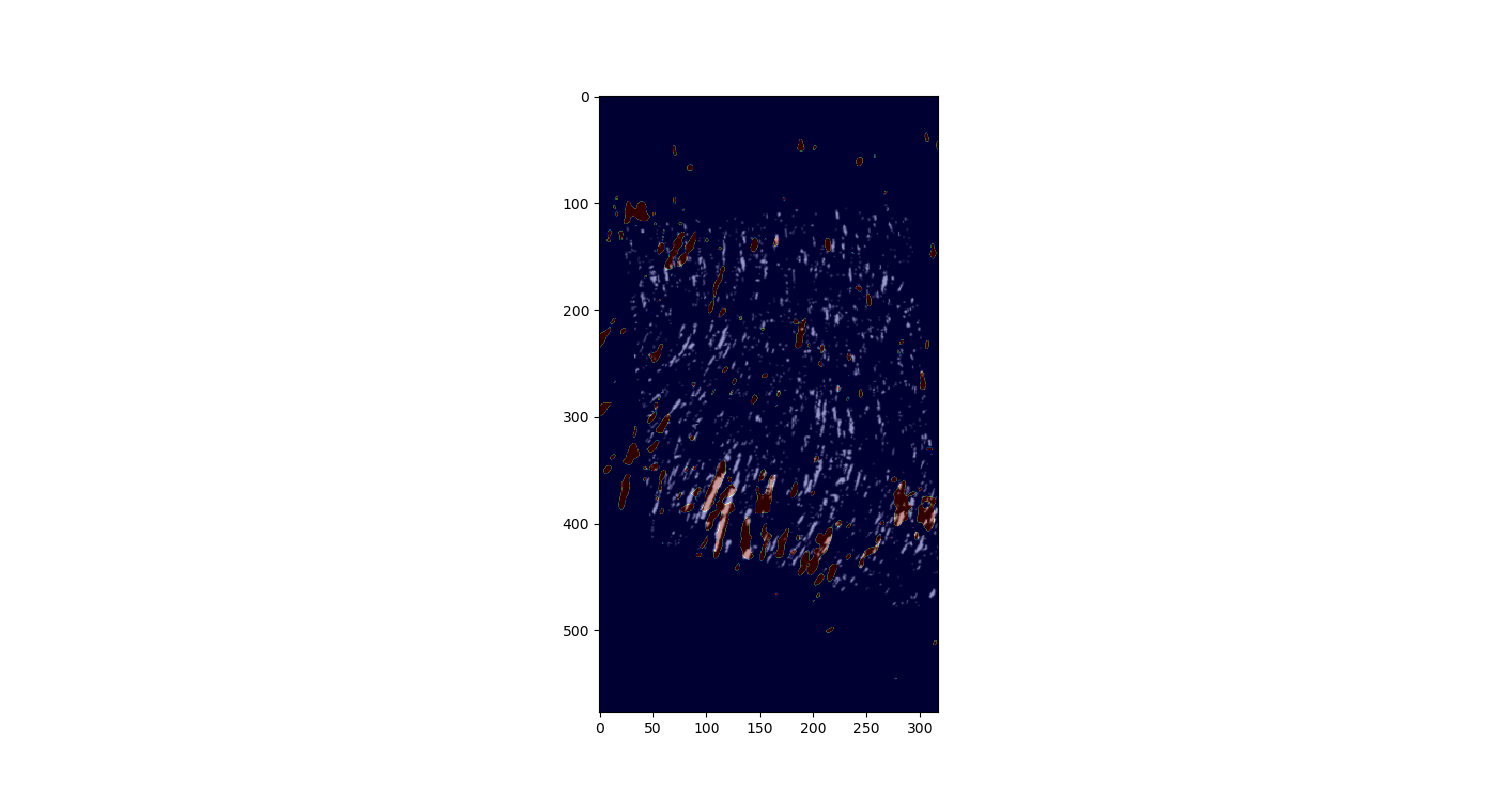
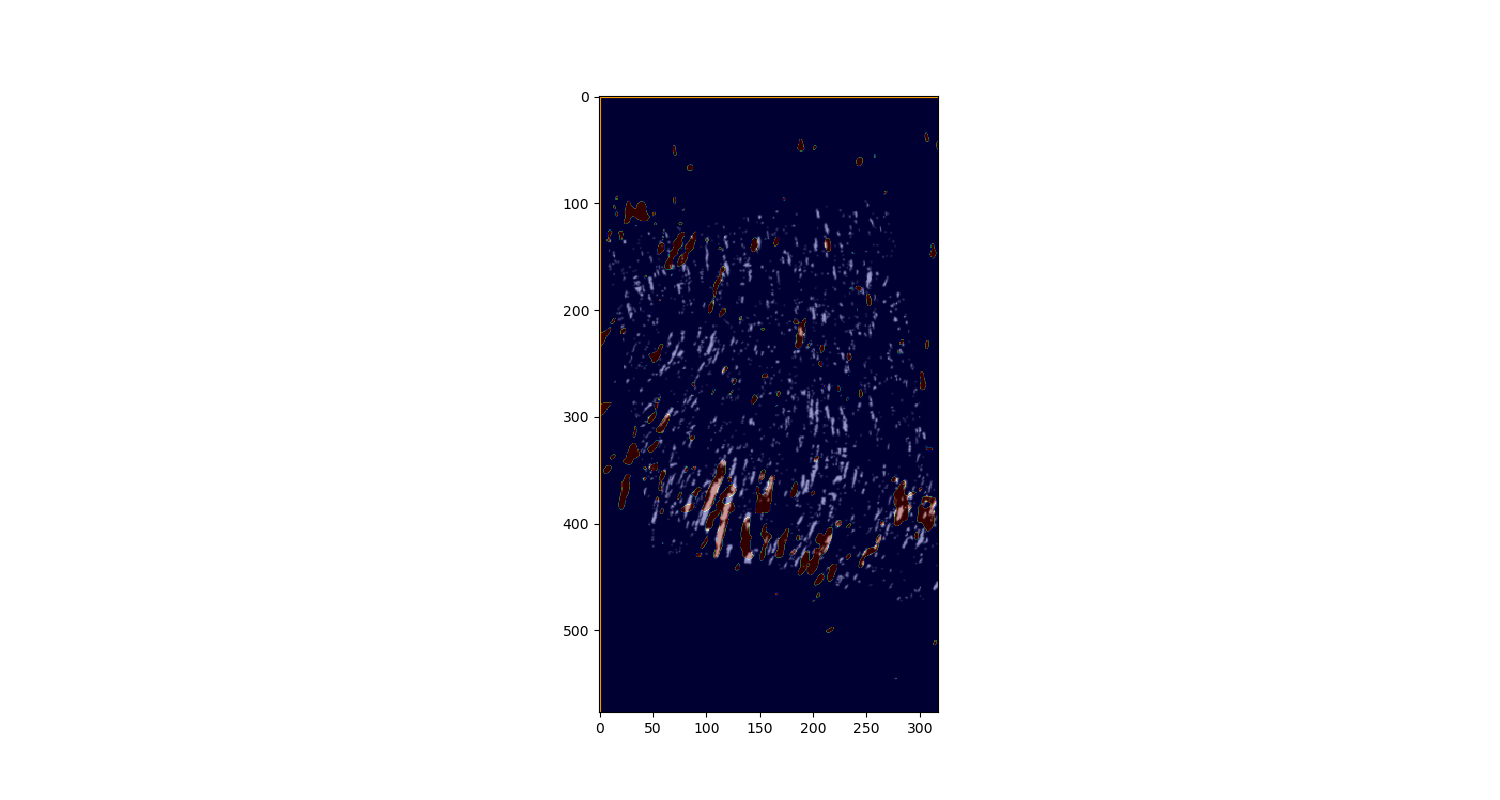
changed to true for all outline segment, and some param

Changed region(s): [[0.3987, 0.25, 0.644, 0.75]]

diff --git a/scripts/run_align_command (align SEMCL to EBSD).py b/scripts/run_align_command (align SEMCL to EBSD).py
@@ -36,7 +36,7 @@ def main() -> None:
     xp_id = 0
     alpha_foreground = 0.4 # transparency between 0-1
     alpha_background = 1 # transparency between 0-1
-    show_image_outline = False  # set to False to hide the orange rectangle showing the segment bounds on the overlay
+    show_image_outline = True  # set to False to hide the orange rectangle showing the segment bounds on the overlay
 
     align_dir.mkdir(parents=True, exist_ok=True)
     out_dir.mkdir(parents=True, exist_ok=True)

diff --git a/scripts/run_distord_command.py b/scripts/run_distord_command.py
@@ -46,7 +46,7 @@ def main() -> None:
     polynom = 3
     alpha_foreground = 0.4 # transparency between 0-1
     alpha_background = 1 # transparency between 0-1
-    show_image_outline = False  # set to False to hide the orange rectangle showing the segment bounds on the overlay
+    show_image_outline = True  # set to False to hide the orange rectangle showing the segment bounds on the overlay
     
     out_dir.mkdir(parents=True, exist_ok=True)
 

diff --git a/scripts/run_distord_command (align SEMCL to EBSD).py b/scripts/run_distord_command (align SEMCL to EBSD).py
@@ -44,7 +44,7 @@ def main() -> None:
     mesh_std = 5
     num_sampling = 2000
     polynom = 3
-    show_image_outline = False  # set to True to draw the orange rectangle showing the segment bounds on the overlay
+    show_image_outline = True  # set to True to draw the orange rectangle showing the segment bounds on the overlay
 
     out_dir.mkdir(parents=True, exist_ok=True)
 
